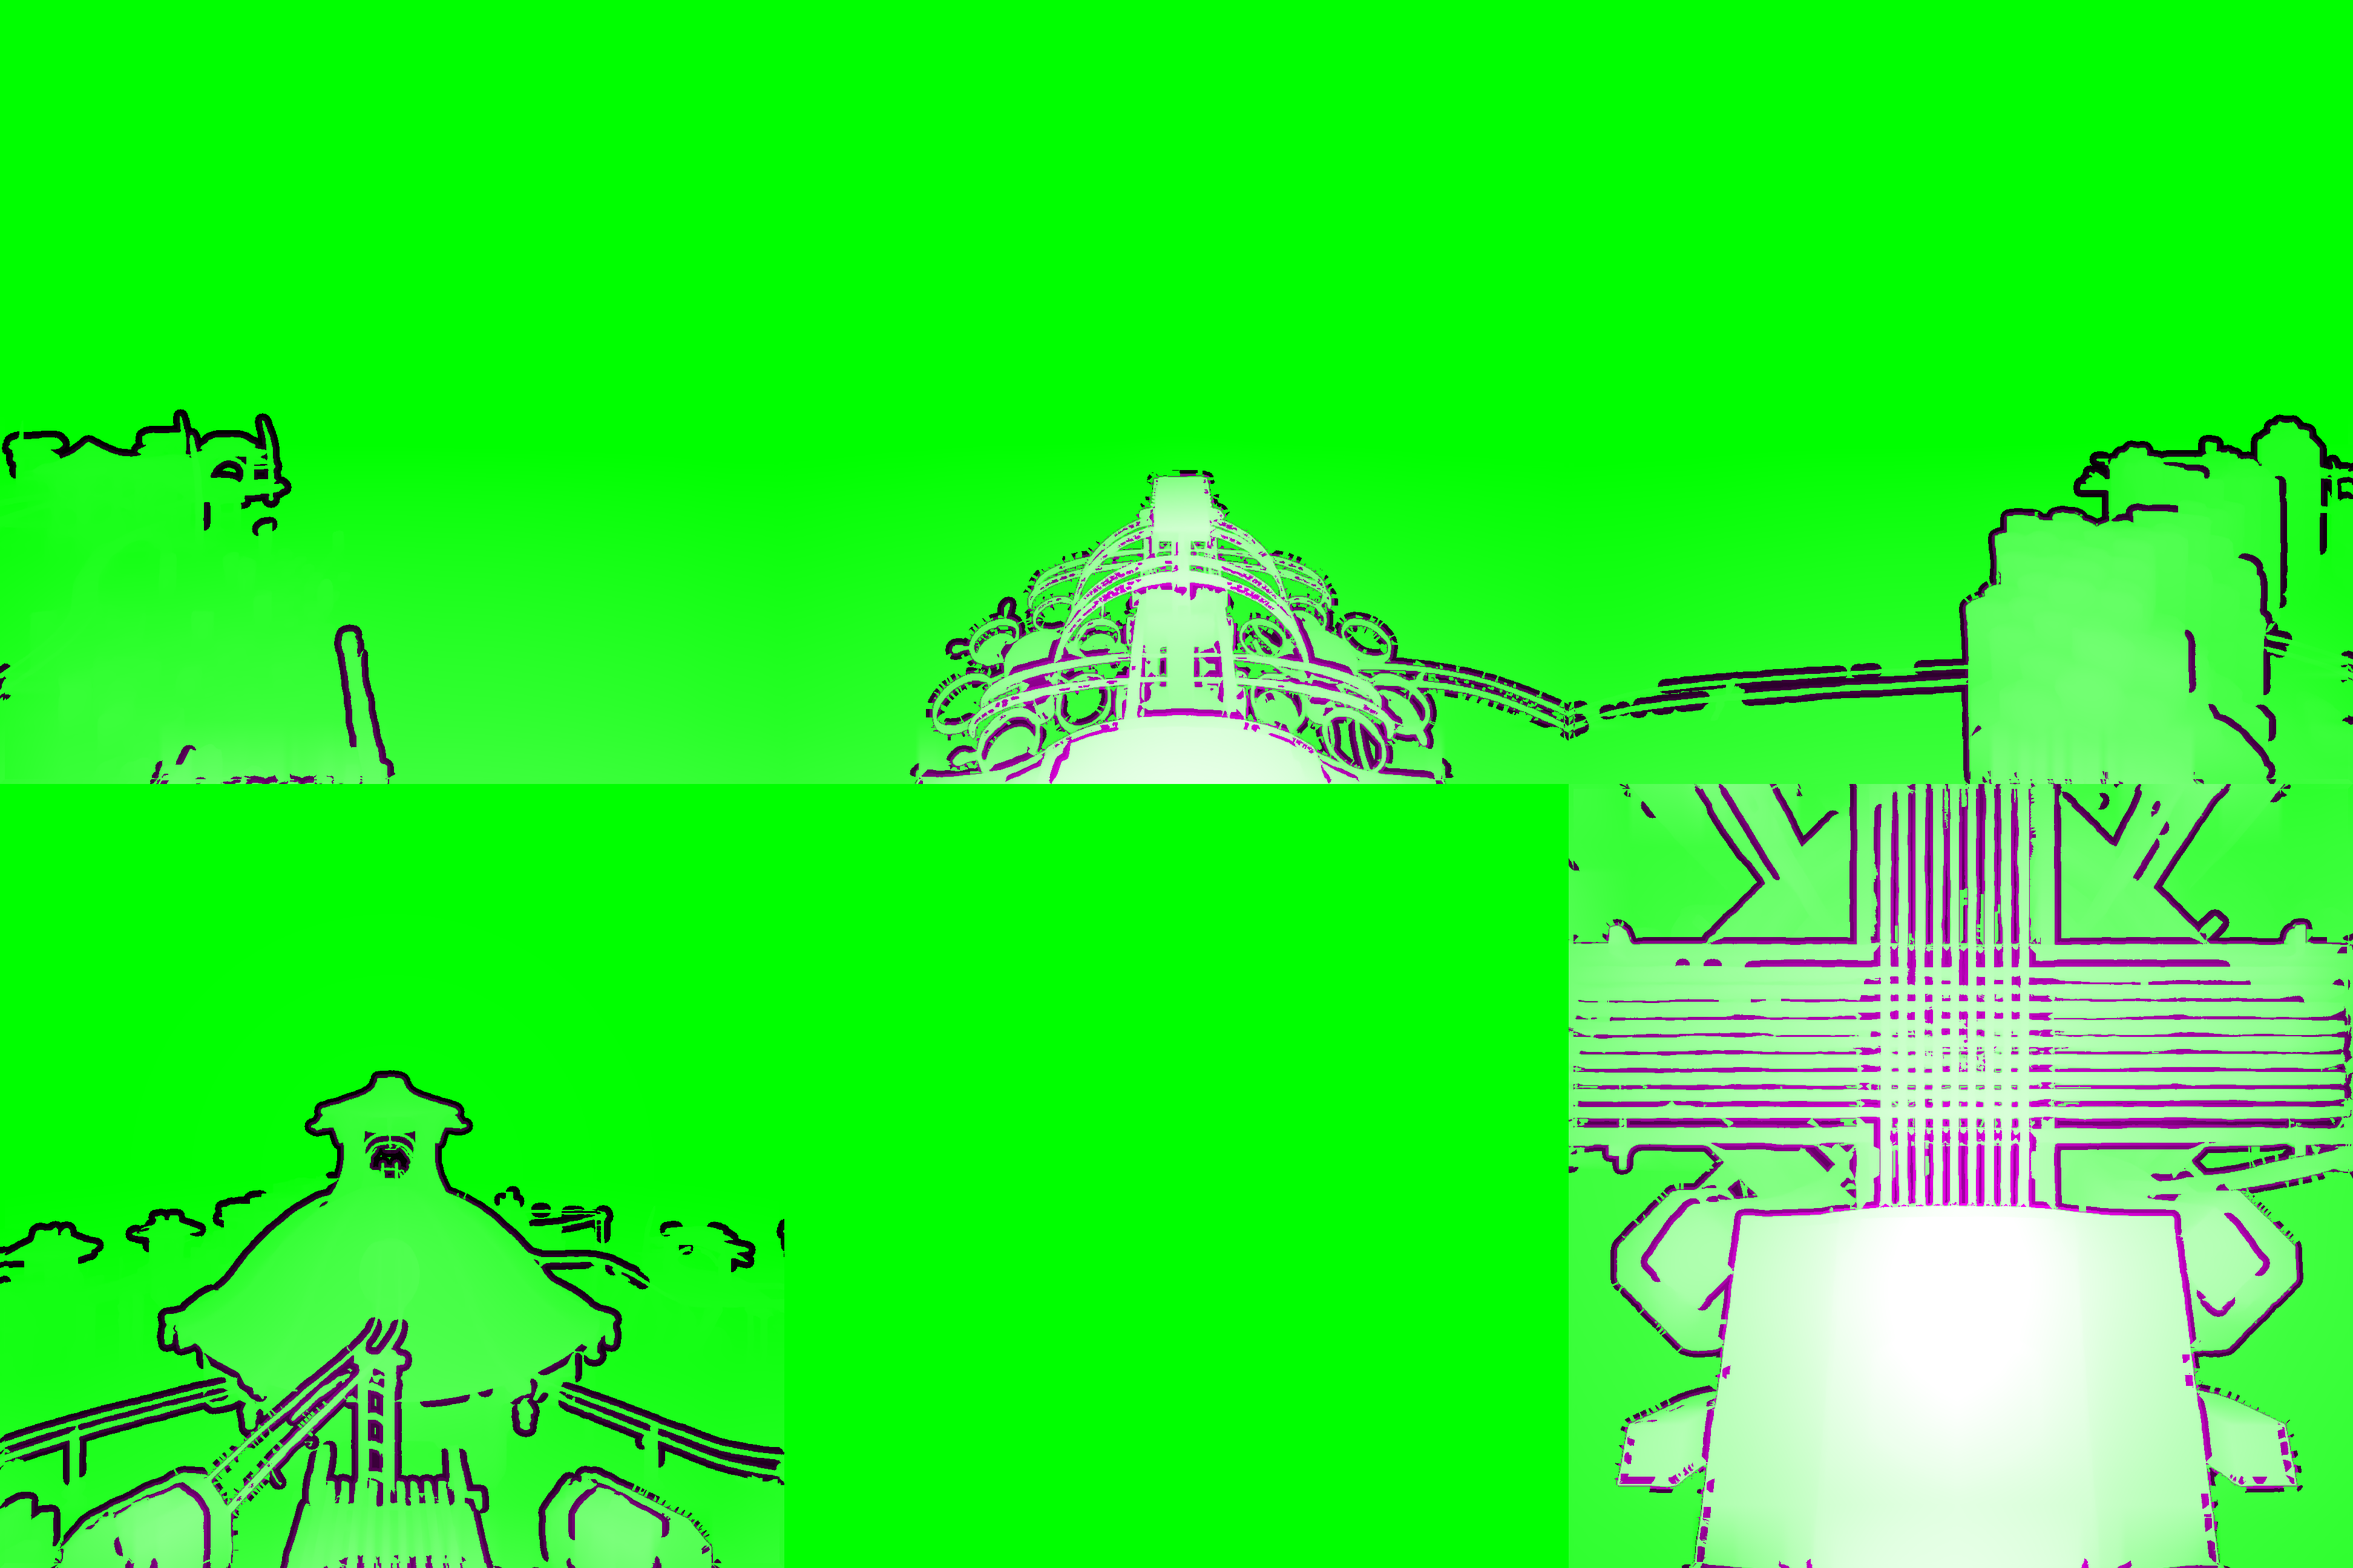
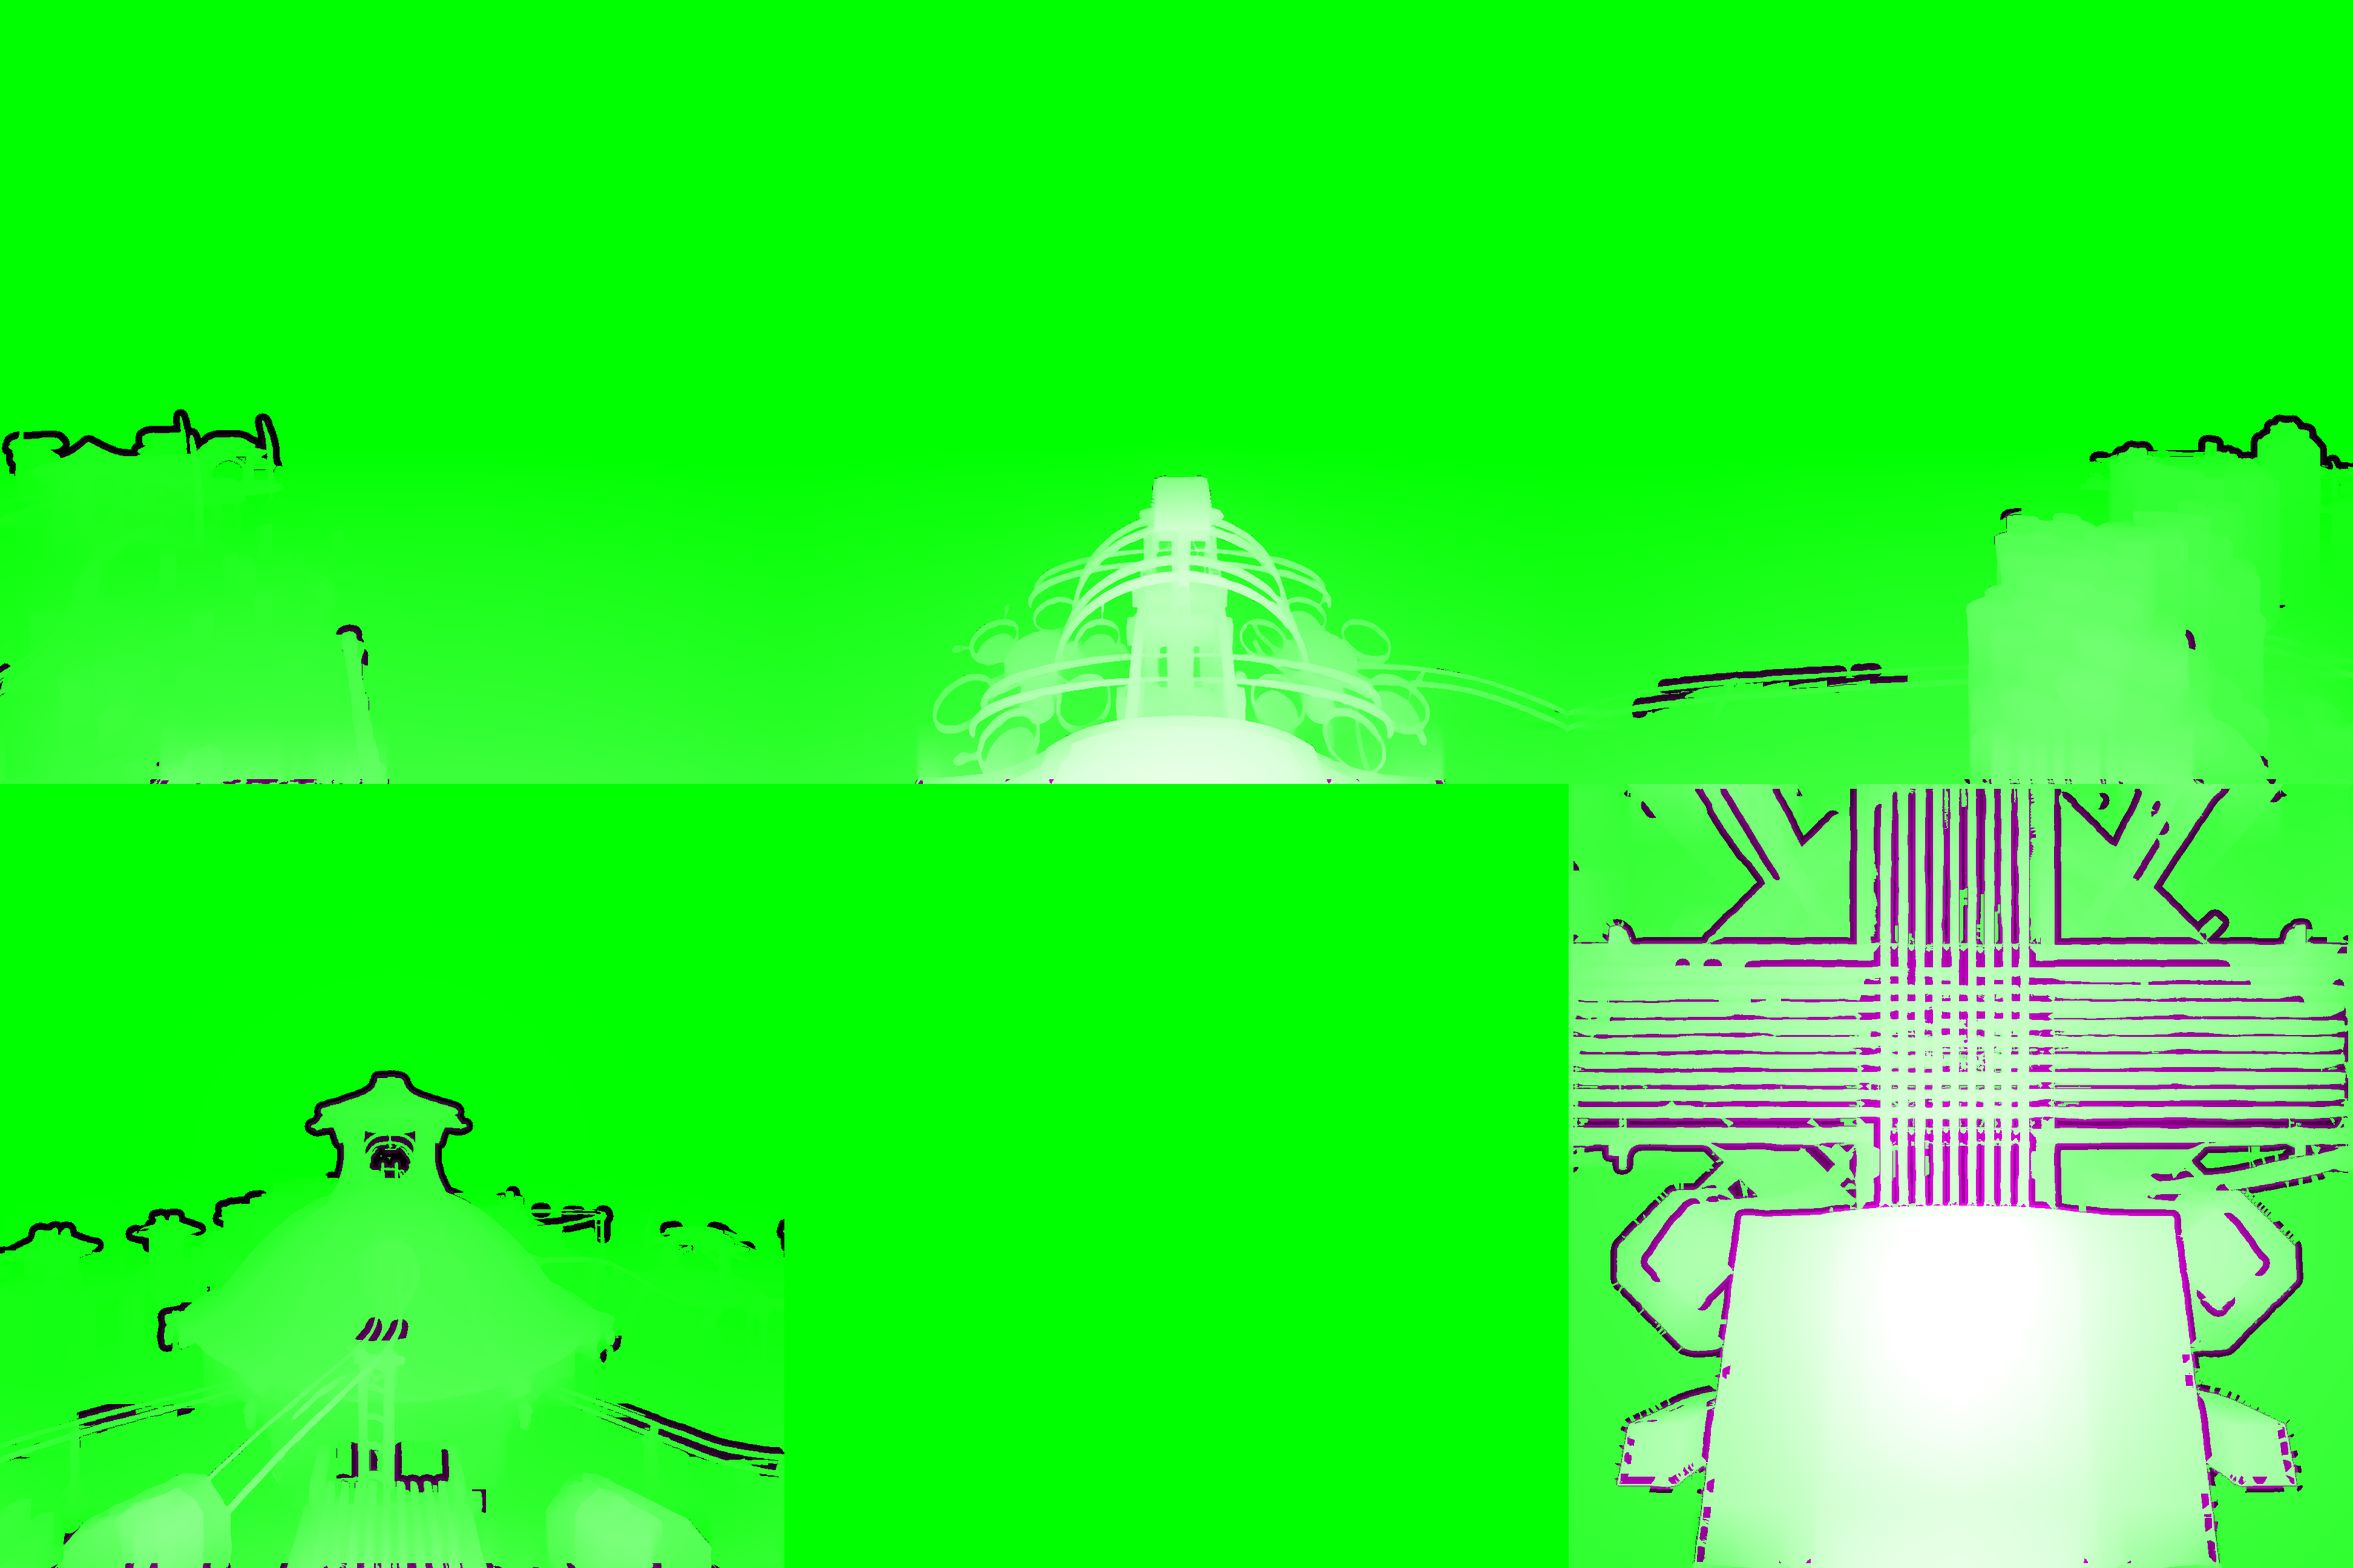
MAWW 101's Layered version takes the farthest step within reach as what is behind on every face but the floor, where the nearest step keeps the beams under the slats. build_layers.py --nearest-faces names the faces built the old way.
Claude-Session: https://claude.ai/code/session_01PGTZsQJKeQ77ippduWGzGV

diff --git a/cube/amateria/layers/build_layers.py b/cube/amateria/layers/build_layers.py
@@ -183,7 +183,8 @@ def removed_region(q, t, band, reach):
     the slats (the sea is in reach through the gaps), and the gaps showed flat
     painted grey; keeping only small middle pieces did not tell the beams from
     the pod's frame. So it is a choice per node: reach 0 is the nearest step,
-    as MAWW 101 is built."""
+    as MAWW 101's floor is built (--nearest-faces 2), while its other faces,
+    the spire and the machinery among them, are cleaner with reach."""
     near, far = jumps(q, t)
     if not far.any():
         none = np.zeros(q.shape, bool)
@@ -234,6 +235,8 @@ def main():
     ap.add_argument('--fringe', type=int, default=6, help='px the painted region reaches past the jump into the far side')
     ap.add_argument('--reach', type=int, default=48, help='px within which the farthest far side counts as behind '
                     '(0: the nearest step\'s far side; MAWW 101 is built so)')
+    ap.add_argument('--nearest-faces', type=int, nargs='*', default=[],
+                    help="faces (node_depth.py's numbers, 2 the floor) built with the nearest step whatever --reach")
     ap.add_argument('--src', default=AMATERIA, help='folder of the faces and depth maps')
     ap.add_argument('--names', nargs=6, help="the six faces' file names without suffix, in node_depth.py's order "
                     "(front, bottom, back, right, left, top; default MAWWnodes-8 ... -13)")
@@ -262,7 +265,8 @@ def main():
     # face padded with its neighbours so a jump at a seam is seen whole.
     for k in range(1, 7):
         look = pad_lookup(k, N, PAD_)
-        region, whole, fq = removed_region(sample(Q, look), a.jump, sc(a.band), sc(a.reach))
+        region, whole, fq = removed_region(sample(Q, look), a.jump, sc(a.band),
+                                             0 if k in a.nearest_faces else sc(a.reach))
         grow = lambda m: cv2.dilate(m.astype(np.uint8), np.ones((2 * sc(a.fringe) + 1,) * 2, np.uint8)) > 0
         masks[k], hide[k], fqs[k] = grow(region), grow(whole), fq
         fgq[k], holes[k] = hole_band(sample(Q, look), whole, a.jump, sc(a.hole), sc(a.hole_step))

diff --git a/cube/README.md b/cube/README.md
@@ -368,8 +368,11 @@ pod-shaped blob at the frame's depth that streaked as the eye moved;
 `--reach 48` takes instead the farthest far side within 48 px (96 at 1280),
 the sky, and ENSI 16 is built so. Two layers cannot hold three, though: under
 MAWW 101's floor it took the beams below the slats for part of them and the
-gaps showed flat grey, so MAWW 101 and MASS 84 keep the nearest step
-(`--reach 0`). Moving the measured
+gaps showed flat grey. The choice is per face: MAWW 101 is built with
+`--reach 48 --nearest-faces 2`, the farthest step on its five other faces
+(cleaner spire and machinery) and the nearest on the floor; MASS 84 keeps the
+nearest step throughout (`--reach 0`; the farthest made no visible
+difference). Moving the measured
 depth's edges onto the picture's by colour was tried first (pixels within
 14–18 px of a jump relabelled near or far) and dropped: in these dark faces
 the labels came out speckled, each speckle tore, and the rings and arcs broke
